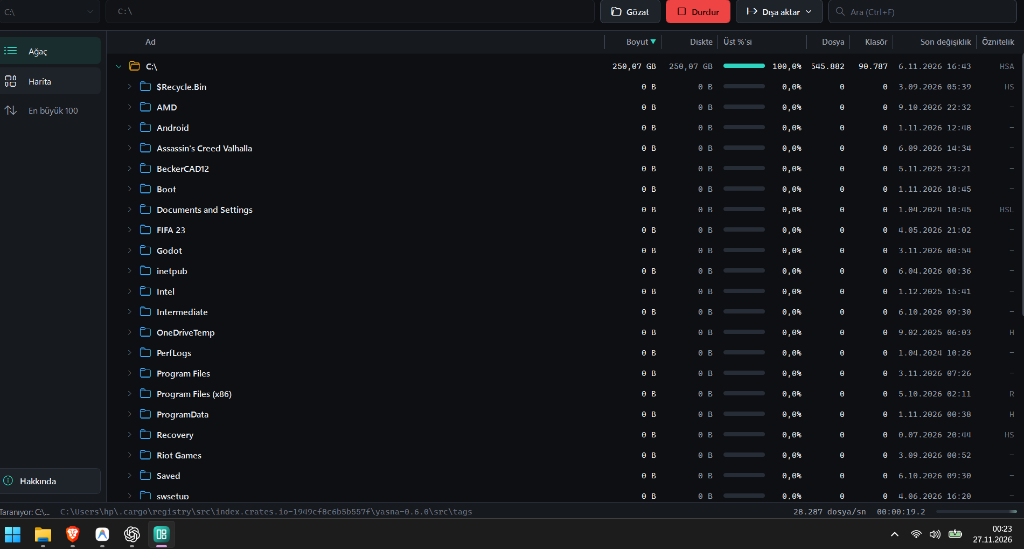
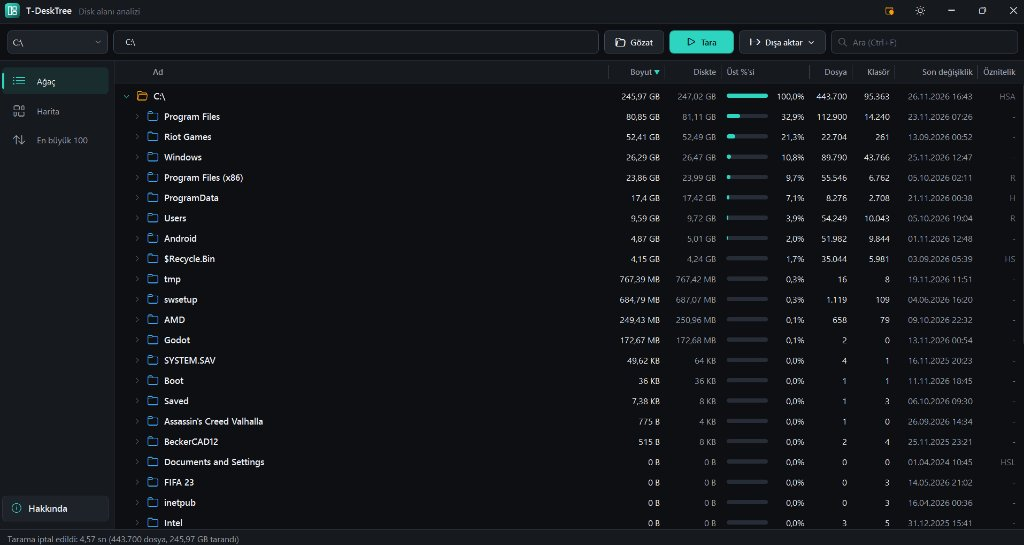
Vitrin: detaylı README ve güncel ekran görüntüleri

diff --git a/README.md b/README.md
@@ -1,71 +1,121 @@
-<p align="center">
-  <img src="assets/logo.svg" alt="T-DeskTree Logo" width="96" height="96" />
+<div align="center">
+
+<img src="assets/logo.svg" alt="T-DeskTree Logo" width="96" height="96" />
+
+<h1>T-DeskTree</h1>
+
+<p>
+  <strong>Diskinizde hangi klasörün ve dosyanın ne kadar yer kapladığını NTFS MFT hızıyla saniyeler içinde gösteren modern Windows disk analiz aracı.</strong>
 </p>
 
-<h1 align="center">T-DeskTree</h1>
-<p align="center">🌐 <strong>Desteklenen Diller:</strong> Türkçe (TR) · English (EN) · Deutsch (DE)</p>
-
-<p align="center">
+<p>
   <a href="https://github.com/taha-sa/t-desktree-releases/releases/latest">
-    <img src="https://img.shields.io/github/v/release/taha-sa/t-desktree-releases?style=flat-square&label=Latest%20Release&color=gold" alt="Latest Release" />
+    <img src="https://img.shields.io/github/v/release/taha-sa/t-desktree-releases?style=for-the-badge&label=S%C3%BCr%C3%BCm&color=D97706" alt="Latest Release" />
   </a>
-  <img src="https://img.shields.io/badge/Platform-Windows%20x64-blue?style=flat-square" alt="Platform" />
-  <img src="https://img.shields.io/badge/Diller-T%C3%BCrk%C3%A7e%20%7C%20English%20%7C%20Deutsch-blueviolet?style=flat-square" alt="Diller: Türkçe, English, Deutsch" />
+  <img src="https://img.shields.io/badge/Platform-Windows%20x64-1F2937?style=for-the-badge" alt="Platform" />
+  <img src="https://img.shields.io/badge/Motor-NTFS%20MFT%20%2B%20Treemap-1F2937?style=for-the-badge" alt="NTFS MFT" />
+  <img src="https://img.shields.io/badge/Diller-TR%20%C2%B7%20EN%20%C2%B7%20DE-1F2937?style=for-the-badge" alt="Diller" />
   <a href="https://github.com/taha-sa/t-desktree-releases/releases">
-    <img src="https://img.shields.io/github/downloads/taha-sa/t-desktree-releases/total?style=flat-square&label=Downloads&color=success" alt="Downloads" />
+    <img src="https://img.shields.io/github/downloads/taha-sa/t-desktree-releases/total?style=for-the-badge&label=%C4%B0ndirme&color=059669" alt="Downloads" />
   </a>
 </p>
 
-> **Not:** Bu depo yalnızca resmi derlenmiş kurulum dosyalarını, güncelleyici manifestlerini ve doğrulama özetlerini barındırır.
+<p>
+  <a href="#-öne-çıkan-özellikler">Özellikler</a> •
+  <a href="#-indir-ve-kur">İndir & Kur</a> •
+  <a href="#-sistem-gereksinimleri">Gereksinimler</a> •
+  <a href="#-gizlilik-ve-güvenlik">Güvenlik</a> •
+  <a href="#-t-suite-ekosistemi">T-Suite</a>
+</p>
+
+</div>
 
 <p align="center">
-  <img src="assets/screenshot.png" alt="Uygulama Ekran Görüntüsü" width="760" />
+  <img src="assets/screenshot.png" alt="T-DeskTree Arayüzü" width="760" />
 </p>
 
+> **Not:** Bu depo yalnızca resmi derlenmiş Windows kurulum dosyasını, taşınabilir (portable) arşivi, güncelleyici manifestini ve `SHA-256` doğrulama özetlerini barındırır.
 
 ---
 
-## Ne İşe Yarar?
+## ✨ Öne Çıkan Özellikler
 
-**T-DeskTree**, disklerinizi ve klasör ağaçlarınızı saniyeler içinde tarayarak en çok yer kaplayan dosya ve dizinleri görselleştiren, hızlı ve sade bir Windows disk analiz aracıdır.
+| Özellik | Detay |
+|---|---|
+| 🚀 **NTFS MFT Ultra-Hızlı Tarama** | NTFS Master File Table (MFT) doğrudan okuma motoruyla yüz binlerce dosyayı saniyeler içinde tarar; diğer sürücülerde ve ağ klasörlerinde yüksek hızlı yerel tarayıcıya otomatik geçer. |
+| 🗺 **Etkileşimli Treemap Görselleştirme** | Diskteki dev dosya ve klasörleri boyutlarıyla orantılı renkli bloklar halinde anında görün, üzerine tıklayarak doğrudan ilgili dizine dalın. |
+| 🌳 **Klasör Ağacı & Oransal Doluluk Çubukları** | Her klasörün gerçek boyutunu, dosya/alt klasör sayısını ve üst dizine göre yer kaplama yüzdesini tek bakışta okuyun. |
+| 📊 **Uzantı & Kategori Analizi** | Diskinizin ne kadarının Video, Arşiv, Uygulama, Görsel veya Belge tarafından kullanıldığını dosya uzantılarına göre özetleyin. |
+| 🏆 **En Büyük Dosyalar & Yaş Dağılımı** | Diskte en çok yer kaplayan dosyaları (Top List) tek listede yakalayın; unutulmuş eski dosyaları **Yaş Dağılımı** görünümüyle tespit edin. |
+| 📤 **Hızlı İşlemler & Rapor Dışa Aktarma** | Dosya/klasörleri doğrudan Windows Gezgini'nde açın, gereksiz dosyaları güvenle silin ve tarama sonuçlarını rapor olarak dışa aktarın. |
+| 🌗 **Modern Koyu/Açık Tema & T-Suite** | Akıcı WPF arayüzü (~715 KB taşınabilir boyut), **T-Bridge Hub** entegrasyonu ve ECDSA imzalı uygulama içi güncelleme. |
 
 ---
 
 ## 📥 İndir ve Kur
 
-👉 **[En Son Sürümü İndir (Latest Release)](https://github.com/taha-sa/t-desktree-releases/releases/latest)**
+### 👉 [En Son Sürümü İndir (Latest Release)](https://github.com/taha-sa/t-desktree-releases/releases/latest)
 
 | Dosya | Açıklama | Platform |
 |---|---|---|
-| \T-DeskTree-Setup-1.2.0.exe\ | **Önerilen** Windows kurulum dosyası | Windows x64 |
-| \T-DeskTree.zip\ | Taşınabilir paket ve otomatik güncelleyici arşivi | Windows x64 |
-| \SHA256SUMS.txt\ | Bütünlük doğrulama özetleri (SHA-256) | Tümü |
+| `T-DeskTree-Setup-1.2.0.exe` | Resmi Windows kurulum paketi | Windows 10/11 (x64) |
+| `T-DeskTree.zip` | Kurulumsuz taşınabilir (Portable) sürüm (~715 KB) | Windows 10/11 (x64) |
+| `SHA256SUMS.txt` | Bütünlük doğrulama özetleri | Tümü |
 
-### Kurulum Notları
-- **SmartScreen:** İlk çalıştırmada *"Windows bilgisayarınızı korudu"* uyarısı görürseniz **Ek bilgi → Yine de çalıştır** adımlarını izleyin.
+<details>
+<summary><strong>📌 Kurulum Notları (NTFS MFT Hızı · SmartScreen · SHA-256)</strong></summary>
+
+<br/>
+
+- **Maksimum Tarama Hızı:** T-DeskTree standart kullanıcı yetkisiyle de çalışır; ancak NTFS sürücülerde en yüksek MFT tarama hızından yararlanmak için Yönetici olarak çalıştırmanız önerilir.
+- **Windows SmartScreen:** İlk kurulumda uyarı ekranı çıkarsa **Ek bilgi → Yine de çalıştır** seçeneğini kullanabilirsiniz.
+
+```powershell
+Get-FileHash .\T-DeskTree-Setup-1.2.0.exe -Algorithm SHA256
+# Çıktıyı sürüm sayfasındaki SHA256SUMS.txt ile karşılaştırın.
+```
+
+</details>
 
 ---
 
 ## 💻 Sistem Gereksinimleri
 
-- **İşletim Sistemi:** Windows 10 / 11 (64-bit)
-- **Çalışma Zamanı:** .NET 10 Desktop Runtime
-
-## 🔒 Gizlilik
-
-- **Telemetri yok:** Kullanım verisi, analitik veya izleme kodu içermez.
-- **Veriler cihazda kalır:** Tüm işlemler yerel olarak cihazınızda gerçekleşir.
+- **İşletim Sistemi:** Windows 10 veya Windows 11 (64-bit)
+- **Dosya Sistemleri:** NTFS (MFT hızlandırma), FAT32, exFAT ve standart klasör yolları
+- **Arayüz Dilleri:** Türkçe (TR) · English (EN) · Deutsch (DE)
 
 ---
 
-## 🧩 T-Suite Ailesi
+## 🔒 Gizlilik ve Güvenlik
 
-T-Suite, günlük masaüstü ve mobil iş akışları için geliştirilmiş hafif, reklamsız ve gizlilik odaklı araçlar ekosistemidir:
+- **%100 Çevrimdışı Analiz:** Dosya adlarınız, klasör yapınız ve disk raporlarınız hiçbir sunucuya gönderilmez.
+- **Sıfır Telemetri:** Analitik, reklam veya arka plan izleme kodu barındırmaz.
+- **İmzalı Güncellemeler:** Uygulama içi güncellemeler kriptografik imza doğrulamasıyla çalışır.
+
+---
+
+## 🧩 T-Suite Ekosistemi
 
 | Uygulama | Ne İşe Yarar? | Platform | Sürüm Deposu |
 |---|---|---|---|
-| **T-Bridge** | Windows ve Android arası dosya, pano ve bildirim köprüsü | Windows, Android | [taha-sa/t-bridge-releases](https://github.com/taha-sa/t-bridge-releases) |
-| **T-Downloader** | Çok parçacıklı hızlı indirme yöneticisi + tarayıcı eklentisi | Windows, Chrome/Edge/Brave | [taha-sa/t-downloader-releases](https://github.com/taha-sa/t-downloader-releases) |
-| **T-RamCash** | Hafif RAM temizleme ve canlı bellek izleme aracı | Windows | [taha-sa/t-ramcash-releases](https://github.com/taha-sa/t-ramcash-releases) |
-| **T-DeskTree** | Hızlı disk ve klasör ağacı tarayıcısı / analiz aracı | Windows | [taha-sa/t-desktree-releases](https://github.com/taha-sa/t-desktree-releases) |
-| **T-Desk Viewer** | Hızlı ve hafif mobil PDF görüntüleyici | Android | [taha-sa/tdesk-viewer-releases](https://github.com/taha-sa/tdesk-viewer-releases) |
+| **T-Bridge** | Windows & Android arası dosya, pano, bildirim, kumanda ve T-Suite Hub | Windows, Android | [taha-sa/t-bridge-releases](https://github.com/taha-sa/t-bridge-releases) |
+| **T-Downloader** | Çok parçacıklı indirme yöneticisi + video/HLS + tarayıcı eklentisi | Windows, Chrome/Edge/Brave | [taha-sa/t-downloader-releases](https://github.com/taha-sa/t-downloader-releases) |
+| **T-DeskTree** *(bu depo)* | NTFS MFT ultra hızlı disk & klasör analizi + Treemap | Windows | [taha-sa/t-desktree-releases](https://github.com/taha-sa/t-desktree-releases) |
+| **T-RamCash** | 5 katmanlı RAM temizleyici ve canlı sistem tepsisi izleyici | Windows | [taha-sa/t-ramcash-releases](https://github.com/taha-sa/t-ramcash-releases) |
+| **T-Desk Viewer** | PDF, Office, EPUB, Kod & ZIP mobil belge görüntüleyici | Android | [taha-sa/tdesk-viewer-releases](https://github.com/taha-sa/tdesk-viewer-releases) |
+
+<details>
+<summary><strong>🇬🇧 English Summary</strong></summary>
+
+<br/>
+
+**T-DeskTree** is an ultra-fast Windows disk space analyzer (~715 KB portable) featuring direct NTFS MFT scanning, interactive Treemap visualization, hierarchical percentage bars, file extension & age distribution stats, Top Largest Files view, report export, dark/light themes, and zero telemetry in Turkish, English, and German.
+
+</details>
+
+---
+
+<p align="center">
+  Hata bildirimi veya özellik önerisi için <a href="https://github.com/taha-sa/t-desktree-releases/issues">Issues</a> sekmesini kullanabilirsiniz · <a href="https://github.com/taha-sa">T-Suite Ekosistemi</a>
+</p>
